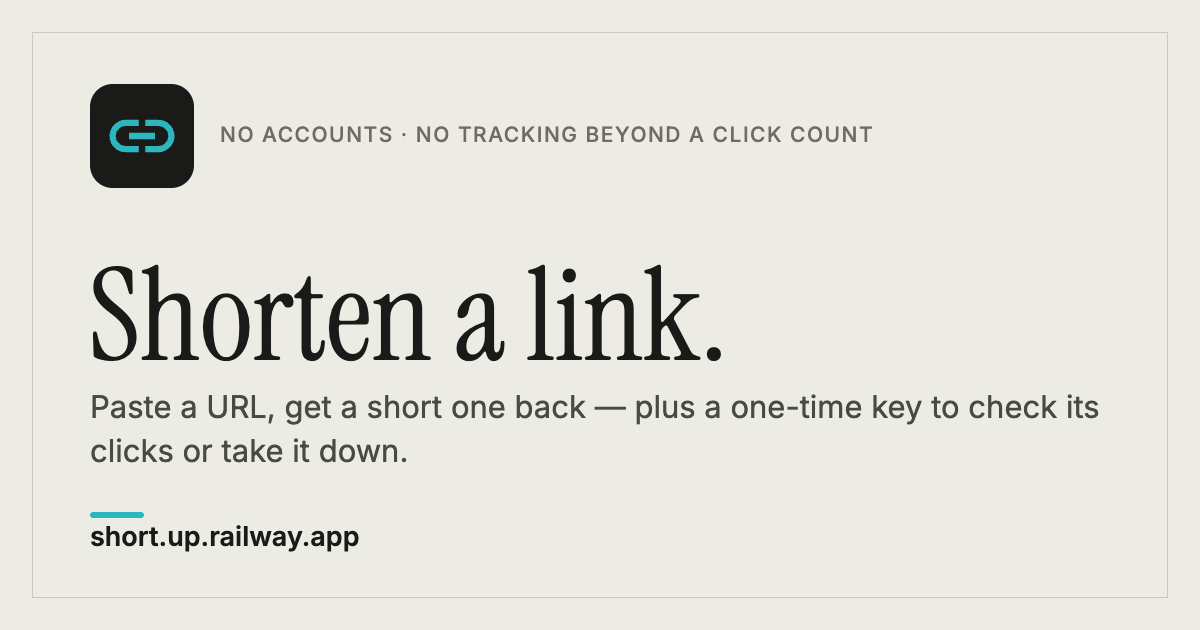
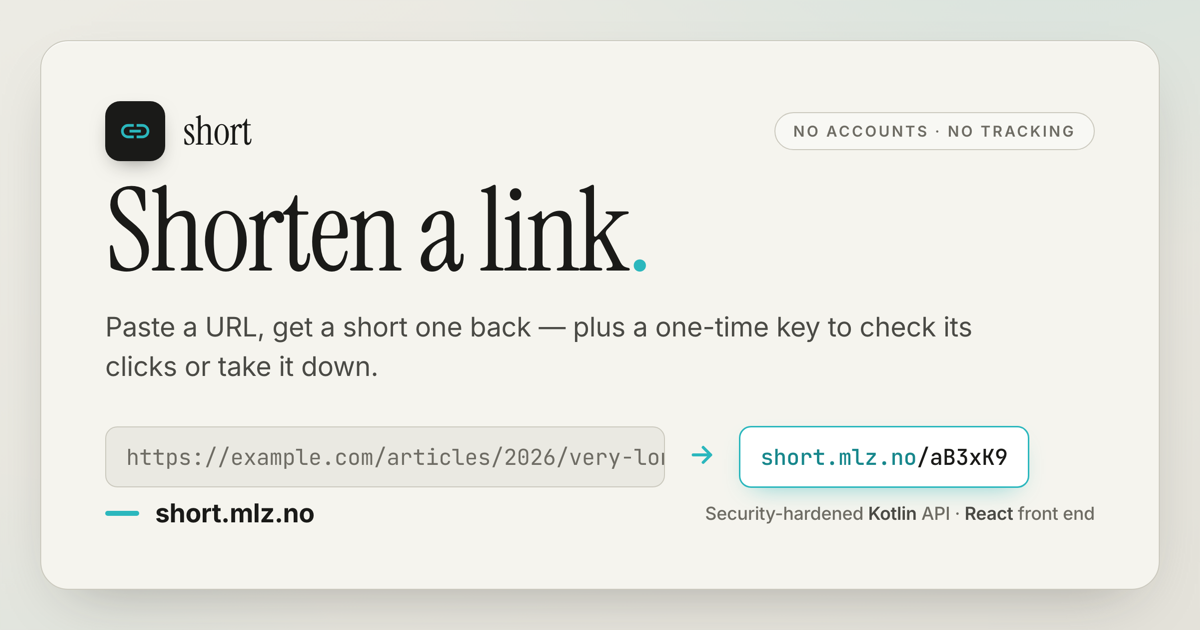
fix: correct live-site URLs and redesign social share card (#19)
* docs: correct live site URL to short.mlz.no

The README and deployment doc pointed at the placeholder
short.up.railway.app; the site is served from the custom domain
short.mlz.no.

Claude-Session: https://claude.ai/code/session_01Ws3LLr1ZvcYZhYzT8XJvmo

* feat(frontend): redesign OG/Twitter card and fix live-site URLs

Redraw the social share image on-brand: the real logo mark, the
Instrument Serif display face, and a concrete long-URL → short.mlz.no/
code demonstration on a layered card, replacing the flat placeholder.

Point every remaining live-site reference at the custom domain
short.mlz.no — index.html metadata (canonical, og:*, twitter:*,
JSON-LD), robots.txt, and sitemap.xml still had the railway.app
placeholder.

Claude-Session: https://claude.ai/code/session_01Ws3LLr1ZvcYZhYzT8XJvmo

* docs: bump Vite version in tech-stack table to 8

The frontend moved to Vite 8 (package.json ^8.1.5) in the batched
dependency update; the README table still read 7.

Claude-Session: https://claude.ai/code/session_01Ws3LLr1ZvcYZhYzT8XJvmo

* docs: correct JUnit version to 6 across docs

The test stack moved to the JUnit 6 BOM (libs.versions.toml junit =
6.1.2) in today's batched dependency update; README, docs/backend.md,
and CLAUDE.md still described it as JUnit 5. Tests still use the Jupiter
API, which continues under JUnit 6.

Verified every other version the docs cite still matches the build:
Kotlin 2.4, Ktor 3.5, Flyway 13, Postgres 18, JDK 25, React 19, Vite 8.
[…]

diff --git a/frontend/index.html b/frontend/index.html
@@ -10,7 +10,7 @@
       name="description"
       content="Paste a URL, get a short one back. No accounts, no logins — clicks are counted, never profiled. Built on a security-hardened Kotlin API."
     />
-    <link rel="canonical" href="https://short.up.railway.app/" />
+    <link rel="canonical" href="https://short.mlz.no/" />
 
     <link rel="icon" type="image/svg+xml" href="/assets/icons/favicon.svg" />
     <link rel="icon" type="image/png" sizes="32x32" href="/assets/icons/favicon-32.png" />
@@ -22,14 +22,14 @@
 
     <meta property="og:type" content="website" />
     <meta property="og:site_name" content="short" />
-    <meta property="og:url" content="https://short.up.railway.app/" />
+    <meta property="og:url" content="https://short.mlz.no/" />
     <meta property="og:title" content="short — a link shortener that doesn't track you" />
     <meta
       property="og:description"
       content="Paste a URL, get a short one back. No accounts, no logins — clicks are counted, never profiled."
     />
     <meta property="og:locale" content="en" />
-    <meta property="og:image" content="https://short.up.railway.app/assets/social/og.png" />
+    <meta property="og:image" content="https://short.mlz.no/assets/social/og.png" />
     <meta property="og:image:type" content="image/png" />
     <meta property="og:image:width" content="1200" />
     <meta property="og:image:height" content="630" />
@@ -41,7 +41,7 @@
       name="twitter:description"
       content="Paste a URL, get a short one back. No accounts, no logins — clicks are counted, never profiled."
     />
-    <meta name="twitter:image" content="https://short.up.railway.app/assets/social/twitter-card.png" />
+    <meta name="twitter:image" content="https://short.mlz.no/assets/social/twitter-card.png" />
     <meta name="twitter:image:alt" content="short — a link shortener that doesn't track you" />
 
     <script type="application/ld+json">
@@ -49,7 +49,7 @@
         "@context": "https://schema.org",
         "@type": "WebSite",
         "name": "short",
-        "url": "https://short.up.railway.app/",
+        "url": "https://short.mlz.no/",
         "description": "Paste a URL, get a short one back. No accounts, no logins — clicks are counted, never profiled.",
         "inLanguage": "en"
       }

diff --git a/README.md b/README.md
@@ -20,9 +20,9 @@ JDBC and a framework-free [React](https://react.dev) client.
 [![React](https://img.shields.io/badge/React-19-61DAFB?style=flat-square&logo=react&logoColor=black)](https://react.dev)
 [![Deployed on Railway](https://img.shields.io/badge/Railway-deploy-0B0D0E?style=flat-square&logo=railway&logoColor=white)](https://railway.app)
 
-[**Live site**](https://short.up.railway.app) · [What it is](#what-it-is) · [Quick start](#quick-start) · [How it works](#how-it-works) · [API](#api) · [Security](#security-decisions) · [Deployment](#deployment) · [Docs](docs)
+[**Live site**](https://short.mlz.no) · [What it is](#what-it-is) · [Quick start](#quick-start) · [How it works](#how-it-works) · [API](#api) · [Security](#security-decisions) · [Deployment](#deployment) · [Docs](docs)
 
-<a href="https://short.up.railway.app">
+<a href="https://short.mlz.no">
   <img src="frontend/public/assets/social/og.png" alt="short — a link shortener that doesn't track you" width="640" />
 </a>
 
@@ -56,7 +56,7 @@ no user-agent, no referrer — and analytics is opt-in and cookieless.
 | Persistence   | Raw JDBC + [HikariCP](https://github.com/brettwooldridge/HikariCP) over [PostgreSQL](https://www.postgresql.org) 18 | Hand-written `PreparedStatement`s — no ORM, no N+1, auditable SQL |
 | Migrations    | [Flyway](https://flywaydb.org) 13 (`.sql`)                            | Versioned, reviewable, run under a privileged role         |
 | Runtime       | [JDK](https://adoptium.net) 25                                        | Pinned via [mise](https://mise.jdx.dev)                    |
-| Web client    | [Vite](https://vite.dev) 7 · [React](https://react.dev) 19 · TypeScript | One screen, one stylesheet, no framework or state library  |
+| Web client    | [Vite](https://vite.dev) 8 · [React](https://react.dev) 19 · TypeScript | One screen, one stylesheet, no framework or state library  |
 | Edge / proxy  | [Caddy](https://caddyserver.com)                                     | The single public entrypoint; injects the service key      |
 | Deploy        | Docker · any container platform                                       | Three services; only the proxy is public ([notes](docs/deployment.md)) |
 | Toolchain     | [mise](https://mise.jdx.dev)                                          | Pins java/node/pnpm and owns every dev task                |
@@ -216,7 +216,7 @@ troubleshooting, live in [`docs/deployment.md`](docs/deployment.md).
 
 ## Testing & CI
 
-Three test layers, all run by `./gradlew build` (or `mise run test`): **unit** (JUnit 5 +
+Three test layers, all run by `./gradlew build` (or `mise run test`): **unit** (JUnit 6 +
 MockK), **repository** (Testcontainers against a real Postgres 18, including a
 `'; DROP TABLE links; --` inertness test), and **end-to-end** (Ktor test client) covering
 every endpoint and every security case from the table above. The full test inventory is in

diff --git a/docs/deployment.md b/docs/deployment.md
@@ -1,6 +1,6 @@
 # Deploying to Railway
 
-How the [live site](https://short.up.railway.app) is deployed. None of this is required to
+How the [live site](https://short.mlz.no) is deployed. None of this is required to
 run the project — the stack is three ordinary containers and runs anywhere (see the
 [root README](../README.md)) — these are the concrete notes for one hosting choice:
 [Railway](https://railway.app).
@@ -80,7 +80,7 @@ network by `web`. Variables:
     *(Single-role setup: point all four at `postgres` and omit the migration pair.)*
 - **`INTERNAL_API_KEY`** — a long random value (`openssl rand -base64 32`); set the *same*
   value on `web`. This is what locks the management API to your frontend.
-- **`BASE_URL`** — the **web** service's public URL (e.g. `https://short.up.railway.app`).
+- **`BASE_URL`** — the **web** service's public URL (e.g. `https://short.mlz.no`).
   Short links are built from this and resolve on the public domain; it's also the
   self-referential target check.
 - **`TRUST_PROXY_HEADERS=true`** — so per-IP rate limiting reads the real client IP from

diff --git a/CLAUDE.md b/CLAUDE.md
@@ -126,7 +126,7 @@ mise run test                 # or: cd backend && ./gradlew build
 - CI (`.github/workflows/`) runs `./gradlew build` (compile + full suite), a Trivy
   scan that **fails on any HIGH/CRITICAL CVE**, `dependency-review` on PRs, OpenSSF
   Scorecard, and a Conventional-Commit PR-title check.
-- Tests: unit (JUnit 5 + MockK), repository (Testcontainers, real Postgres 18), and
+- Tests: unit (JUnit 6 + MockK), repository (Testcontainers, real Postgres 18), and
   e2e (Ktor test client). The security cases are part of the suite — keep them.
 - A dedicated SAST scanner (CodeQL/detekt) is intentionally not wired in yet: neither
   supports the JDK 25 + Kotlin 2.4 toolchain as of writing. Don't add one until it

diff --git a/docs/backend.md b/docs/backend.md
@@ -134,7 +134,7 @@ cd backend
 ./gradlew build test
 ```
 
-- **Unit** (JUnit 5 + MockK): `UrlValidator`, `LinkService`, `CodeGenerator`, rate limiter,
+- **Unit** (JUnit 6 + MockK): `UrlValidator`, `LinkService`, `CodeGenerator`, rate limiter,
   owner-token hashing, and the service-key constant-time compare.
 - **Repository** (Testcontainers, real Postgres 18): parameterized queries, uniqueness,
   soft-delete/expiry filtering, click aggregation, and a `'; DROP TABLE links; --`
